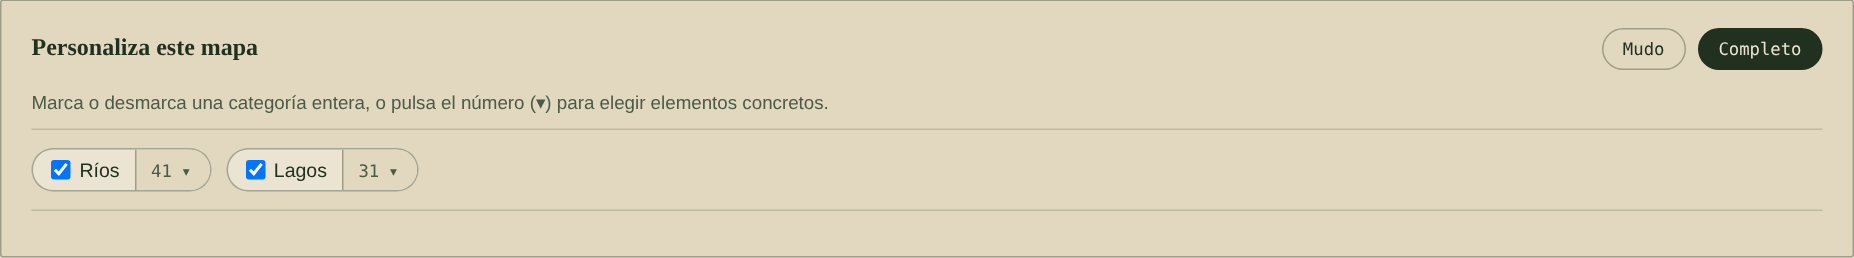
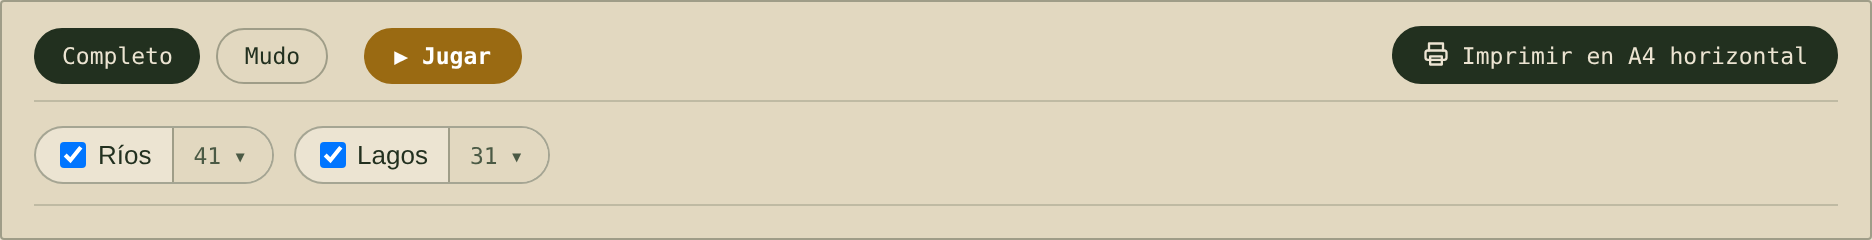
Ayuda: actualizar capturas y textos a la nueva colocación de botones
Claude-Session: https://claude.ai/code/session_01XAusmCyHUDgTaegH1UnSsU

diff --git a/ayuda.html b/ayuda.html
@@ -67,10 +67,10 @@
   <p>En los mapas <strong>políticos</strong> de los continentes (<a href="europa-politico.html">Europa</a>, <a href="africa-politico.html">África</a>, <a href="america-politico.html">América</a>, <a href="asia-politico.html">Asia</a> y <a href="oceania-politico.html">Oceanía</a>), al pulsar un país aparece su ficha: bandera, capital, población, superficie, densidad, moneda e idiomas oficiales. La población es una estimación de 2019, así que sirve para comparar países, no como cifra actual. Mientras se juega, las fichas no se muestran.</p>
 
   <h2 id="personalizar">Personalizar un mapa</h2>
-  <p>Sobre cada mapa está el panel <em>Personaliza este mapa</em>. Marca o desmarca una categoría (por ejemplo <em>Ríos</em> o <em>Lagos</em>) para mostrarla u ocultarla en todo el mapa.</p>
-  <figure style="margin:14px 0 22px"><img src="docentes-panel.png" alt="Panel Personaliza este mapa con las casillas Ríos y Lagos y los botones Mudo y Completo" style="width:100%;max-width:100%;border:1px solid rgba(34,48,31,.35);border-radius:2px;display:block"><figcaption style="font-size:13px;color:#4B5A45;margin-top:6px">El panel de personalización: casillas por categoría y, arriba a la derecha, los botones <em>Mudo</em>, <em>Completo</em> y <em>Jugar</em>.</figcaption></figure>
+  <p>Sobre cada mapa está el panel de personalización. Marca o desmarca una categoría (por ejemplo <em>Ríos</em> o <em>Lagos</em>) para mostrarla u ocultarla en todo el mapa.</p>
+  <figure style="margin:14px 0 22px"><img src="docentes-panel.png?v=3" alt="Panel de personalización con los botones Completo, Mudo y Jugar, el botón Imprimir y las casillas Ríos y Lagos" style="width:100%;max-width:100%;border:1px solid rgba(34,48,31,.35);border-radius:2px;display:block"><figcaption style="font-size:13px;color:#4B5A45;margin-top:6px">El panel de personalización: arriba a la izquierda los botones <em>Completo</em>, <em>Mudo</em> y <em>Jugar</em>, arriba a la derecha <em>Imprimir</em>, y debajo las casillas por categoría.</figcaption></figure>
   <p>Para elegir elementos concretos, pulsa el número que hay junto a cada categoría (el «41 ▾» de Ríos). Se abre la lista y puedes marcar solo los que estudies, o usar <em>Marcar todos</em> y <em>Ninguno</em>.</p>
-  <figure style="margin:14px 0 22px"><img src="docentes-avanzado.png" alt="Lista desplegada de ríos con casillas para elegir uno a uno" style="width:100%;max-width:100%;border:1px solid rgba(34,48,31,.35);border-radius:2px;display:block"><figcaption style="font-size:13px;color:#4B5A45;margin-top:6px">Lista desplegada: marca solo los ríos que quieras que aparezcan.</figcaption></figure><h3 style="margin:26px 0 8px">Botones «Completo» y «Mudo»</h3>
+  <figure style="margin:14px 0 22px"><img src="docentes-avanzado.png?v=3" alt="Lista desplegada de ríos con casillas para elegir uno a uno" style="width:100%;max-width:100%;border:1px solid rgba(34,48,31,.35);border-radius:2px;display:block"><figcaption style="font-size:13px;color:#4B5A45;margin-top:6px">Lista desplegada: marca solo los ríos que quieras que aparezcan.</figcaption></figure><h3 style="margin:26px 0 8px">Botones «Completo» y «Mudo»</h3>
   <ul>
     <li><strong>Completo</strong>: el mapa con todos sus elementos y nombres.</li>
     <li><strong>Mudo</strong>: deja solo la base con el relieve, sin ríos, lagos ni nombres. Sirve para que el alumnado los dibuje y los rotule. También puedes partir de Mudo y marcar solo lo que quieras que aparezca.</li>
@@ -81,15 +81,15 @@
   </div>
 
   <h2 id="jugar">Jugar: «Localiza en el mapa»</h2>
-  <p>Todos los mapas tienen un botón <strong>Jugar</strong>, junto a <em>Mudo</em> y <em>Completo</em>. Convierte el mapa en un juego de preguntas: el programa dice un nombre («¿Dónde está el río Guadiana?») y tú lo señalas con un clic o un toque. No hace falta instalar nada ni crear cuentas.</p>
-  <figure style="margin:14px 0 22px"><img src="docentes-jugar-boton.png" alt="Panel Personaliza este mapa con el botón Jugar junto a Mudo y Completo" style="width:100%;max-width:100%;border:1px solid rgba(34,48,31,.35);border-radius:2px;display:block"><figcaption style="font-size:13px;color:#4B5A45;margin-top:6px">El botón <em>Jugar</em>, a la derecha del panel.</figcaption></figure><h3 style="margin:26px 0 8px">Cómo se juega</h3>
+  <p>Todos los mapas tienen un botón <strong>Jugar</strong>, junto a <em>Completo</em> y <em>Mudo</em>. Convierte el mapa en un juego de preguntas: el programa dice un nombre («¿Dónde está el río Guadiana?») y tú lo señalas con un clic o un toque. No hace falta instalar nada ni crear cuentas.</p>
+  <figure style="margin:14px 0 22px"><img src="docentes-jugar-boton.png?v=3" alt="Panel de personalización con el botón Jugar junto a Completo y Mudo" style="width:100%;max-width:100%;border:1px solid rgba(34,48,31,.35);border-radius:2px;display:block"><figcaption style="font-size:13px;color:#4B5A45;margin-top:6px">El botón <em>Jugar</em>, junto a <em>Completo</em> y <em>Mudo</em>.</figcaption></figure><h3 style="margin:26px 0 8px">Cómo se juega</h3>
   <ol>
     <li><strong>Pulsa «Jugar»</strong> y elige qué quieres preguntar, cuántas preguntas (10, 20 o todas) y cuántos intentos (2 o 1 por pregunta).</li>
     <li><strong>Señala en el mapa</strong> lo que se pregunta. Los nombres del mapa se ocultan durante el juego.</li>
     <li><strong>Mira el resultado</strong>: si aciertas, el elemento se ilumina en verde y aparece su nombre; si fallas, te dice qué has señalado y, tras el último intento, marca la respuesta correcta en naranja.</li>
     <li><strong>Pasa solo a la siguiente pregunta</strong>, sin pulsar nada. Al final verás cuántas has acertado (y cuántas a la primera) y la lista de las que conviene repasar, con un botón para repetir solo esas.</li>
   </ol>
-  <figure style="margin:14px 0 22px"><img src="docentes-jugar-config.png" alt="Pantalla de configuración del juego" style="width:100%;max-width:100%;border:1px solid rgba(34,48,31,.35);border-radius:2px;display:block"><figcaption style="font-size:13px;color:#4B5A45;margin-top:6px">Antes de empezar eliges qué preguntar, cuántas preguntas y cuántos intentos.</figcaption></figure><figure style="margin:14px 0 22px"><img src="docentes-jugar-acierto.jpg" alt="Pregunta del juego respondida correctamente en el mapa de hidrografía de España" style="width:100%;max-width:100%;border:1px solid rgba(34,48,31,.35);border-radius:2px;display:block"><figcaption style="font-size:13px;color:#4B5A45;margin-top:6px">Una pregunta acertada: el río Guadiana se ilumina en verde con su nombre.</figcaption></figure><h3 style="margin:26px 0 8px">Qué se puede preguntar</h3>
+  <figure style="margin:14px 0 22px"><img src="docentes-jugar-config.png?v=3" alt="Pantalla de configuración del juego" style="width:100%;max-width:100%;border:1px solid rgba(34,48,31,.35);border-radius:2px;display:block"><figcaption style="font-size:13px;color:#4B5A45;margin-top:6px">Antes de empezar eliges qué preguntar, cuántas preguntas y cuántos intentos.</figcaption></figure><figure style="margin:14px 0 22px"><img src="docentes-jugar-acierto.jpg" alt="Pregunta del juego respondida correctamente en el mapa de hidrografía de España" style="width:100%;max-width:100%;border:1px solid rgba(34,48,31,.35);border-radius:2px;display:block"><figcaption style="font-size:13px;color:#4B5A45;margin-top:6px">Una pregunta acertada: el río Guadiana se ilumina en verde con su nombre.</figcaption></figure><h3 style="margin:26px 0 8px">Qué se puede preguntar</h3>
   <ul>
     <li><strong>Político</strong>: países y capitales; en España, además, comunidades autónomas, provincias y sus capitales.</li>
     <li><strong>Hidrografía</strong>: ríos y lagos (también «los ríos principales» para empezar por lo básico), y según el mapa países, regiones o mares.</li>
@@ -107,8 +107,8 @@
   <p>El juego se calcula en el propio navegador: <strong>no se guarda ni se envía ningún dato</strong> de nadie, ni siquiera las puntuaciones.</p>
 
   <h2 id="imprimir">Imprimir</h2>
-  <p>Cuando el mapa esté como quieres, pulsa el botón <em>Imprimir en A4 horizontal</em>, que está encima del mapa. Se imprime en A4 apaisado, sin el panel ni el menú.</p>
-  <figure style="margin:14px 0 22px"><img src="docentes-imprimir.png" alt="Botón Imprimir en A4 horizontal" style="width:100%;max-width:260px;border:1px solid rgba(34,48,31,.35);border-radius:2px;display:block"><figcaption style="font-size:13px;color:#4B5A45;margin-top:6px">El botón de impresión.</figcaption></figure>
+  <p>Cuando el mapa esté como quieres, pulsa el botón <em>Imprimir en A4 horizontal</em>, que está arriba a la derecha del panel de personalización. Se imprime en A4 apaisado, sin el panel ni el menú.</p>
+  <figure style="margin:14px 0 22px"><img src="docentes-imprimir.png?v=3" alt="Botón Imprimir en A4 horizontal" style="width:100%;max-width:260px;border:1px solid rgba(34,48,31,.35);border-radius:2px;display:block"><figcaption style="font-size:13px;color:#4B5A45;margin-top:6px">El botón de impresión, arriba a la derecha del panel.</figcaption></figure>
   <h2 id="ideas">Ideas según quién eres</h2>
   <h3 style="margin:26px 0 8px">Si eres docente</h3>
   <ul>
